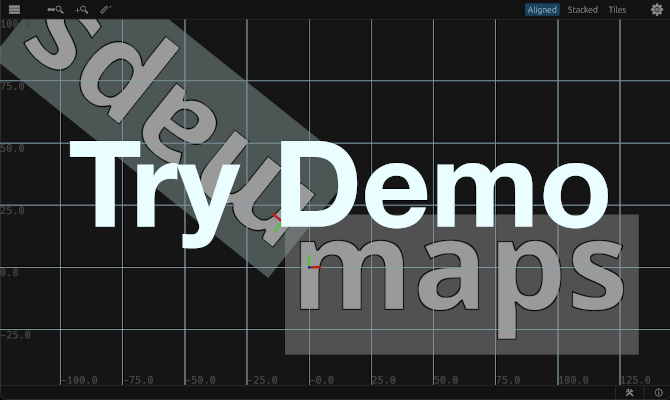
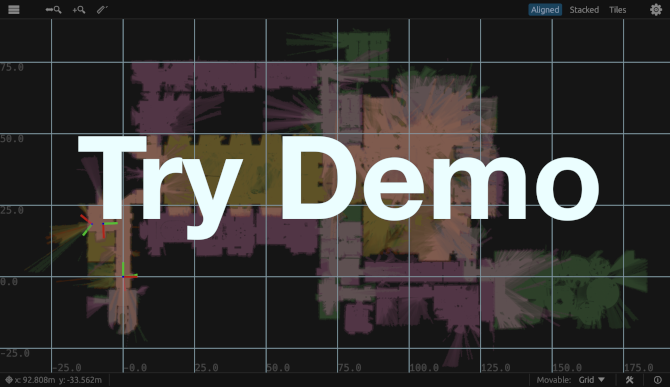
Cooler web demo with real demo maps

diff --git a/src/wasm/demo.rs b/src/wasm/demo.rs
@@ -9,7 +9,6 @@ use crate::image_pyramid::ImagePyramid;
 use crate::map_pose::MapPose;
 use crate::meta::Meta;
 use crate::movable::Draggable;
-use crate::value_interpretation::Mode;
 
 // Embedded demo function with dummy maps (included during compile time) for the wasm target.
 // This is a simple way to provide a demo without the need for a server.
@@ -43,64 +42,71 @@ impl AppState {
             )
             .clicked()
         {
-            self.load_dummy_maps();
+            self.load_demo_maps();
         }
     }
 
-    fn load_dummy_maps(&mut self) {
-        let name_1 = "dummy_map_lores.yaml".to_string();
-        let img_1 = Arc::new(ImagePyramid::new(
-            load_image_from_bytes(include_bytes!("../../data/dummy_maps/dummy_map_lores.png"))
-                .expect("broken demo"),
-        ));
-        let meta_1 = Meta::load_from_bytes(
-            include_bytes!("../../data/dummy_maps/dummy_map_lores.yaml"),
-            &name_1,
-        )
-        .expect("broken demo");
-        self.add_map(&name_1, meta_1, img_1);
+    fn load_demo_maps(&mut self) {
+        let tints = [
+            egui::Color32::from_rgba_premultiplied(123, 45, 0, 128),
+            egui::Color32::from_rgba_premultiplied(32, 67, 32, 74),
+            egui::Color32::from_rgba_premultiplied(97, 52, 76, 97),
+        ];
 
-        let name_2 = "dummy_map_hires.yaml".to_string();
-        let img_2 = Arc::new(ImagePyramid::new(
-            load_image_from_bytes(include_bytes!("../../data/dummy_maps/dummy_map_hires.png"))
-                .expect("broken demo"),
-        ));
-        let meta_2 = Meta::load_from_bytes(
-            include_bytes!("../../data/dummy_maps/dummy_map_hires.yaml"),
-            &name_2,
-        )
-        .expect("broken demo");
-        self.add_map(&name_2, meta_2, img_2);
+        // Macro for loading the cartographer maps at compile time.
+        // Note that we use JPEG version here for smaller wasm size.
+        macro_rules! load_map {
+            ($index:literal) => {{
+                let name = format!("map_{}.yaml", $index);
+                let img = Arc::new(ImagePyramid::new(
+                    load_image_from_bytes(include_bytes!(concat!(
+                        "../../data/google_cartographer_example/jpeg/map_",
+                        stringify!($index),
+                        ".jpg"
+                    )))
+                    .expect("broken demo"),
+                ));
+                let meta = Meta::load_from_bytes(
+                    include_bytes!(concat!(
+                        "../../data/google_cartographer_example/map_",
+                        stringify!($index),
+                        ".yaml"
+                    )),
+                    &name,
+                )
+                .expect("broken demo");
+                self.add_map(&name, meta, img);
 
-        // Change some random stuff to make it more interesting.
-        let map_1 = self.data.maps.get_mut(&name_1).expect("missing demo map");
-        map_1.use_value_interpretation = true;
-        map_1.meta.value_interpretation.mode = Mode::Trinary;
-        map_1.tint = Some(egui::Color32::from_white_alpha(128));
-        map_1.pose = MapPose::from_bytes(include_bytes!(
-            "../../data/google_cartographer_example/pose_1.yaml"
-        ))
-        .expect("broken demo");
+                let map = self.data.maps.get_mut(&name).expect("missing demo map");
+                map.tint = Some(tints[$index]);
+                map.color_to_alpha = Some(egui::Color32::from_gray(128));
+                map.pose = MapPose::from_bytes(include_bytes!(concat!(
+                    "../../data/google_cartographer_example/pose_",
+                    stringify!($index),
+                    ".yaml"
+                )))
+                .expect("broken demo");
+            }};
+        }
 
-        let map_2 = self.data.maps.get_mut(&name_2).expect("missing demo map");
-        map_2.tint = Some(egui::Color32::from_white_alpha(128));
-        map_2.pose.map_frame = "map_2".to_string();
-        map_2.pose.root_frame = "root".to_string();
+        // Load maps 0, 1, and 2
+        load_map!(0);
+        load_map!(1);
+        load_map!(2);
 
-        self.options.tint_settings.active_tint_selection = Some(name_1.clone());
-        self.options.grid.scale = 4.5;
-        self.options.grid.drag(egui::vec2(0., 30.));
+        self.options.tint_settings.active_tint_selection = Some("map_2.yaml".to_owned());
+        self.options.grid.scale = 5.5;
+        self.options.grid.drag(egui::vec2(-75., 30.));
         self.options.grid.line_spacing_meters = 25.;
         self.options.grid.marker_visibility = MarkerVisibility::All;
         self.options.grid.marker_length_meters = 5.;
-        self.options.grid.marker_width_meters = 1.;
+        self.options.grid.marker_width_meters = 0.75;
         self.options.canvas_settings.theme_preference = egui::ThemePreference::Dark;
 
         // Collapse some settings to be less overwhelming and to show that it's possible.
         // (show grid settings expanded)
         self.options.collapsed.app_settings = true;
         self.options.collapsed.canvas_settings = true;
-        self.options.collapsed.tint_settings = true;
         self.options.collapsed.tool_settings = true;
     }
 }

diff --git a/data/google_cartographer_example/jpeg/README.md b/data/google_cartographer_example/jpeg/README.md
@@ -1,0 +1,1 @@
+JPEG versions of the maps for the embedded web demo to have a smaller wasm binary size.
